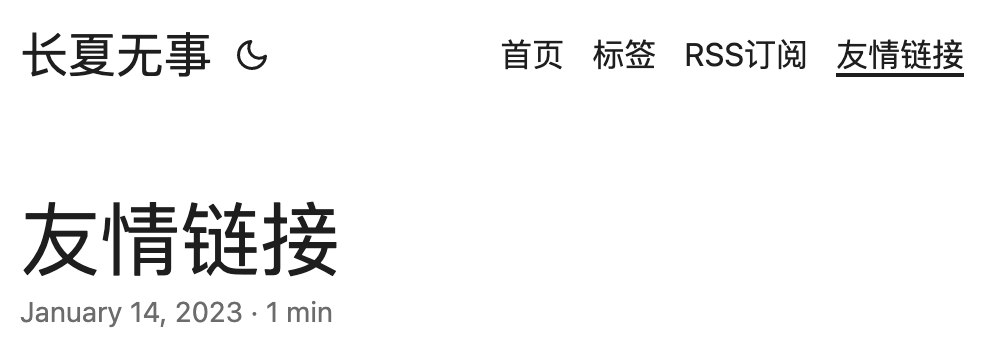
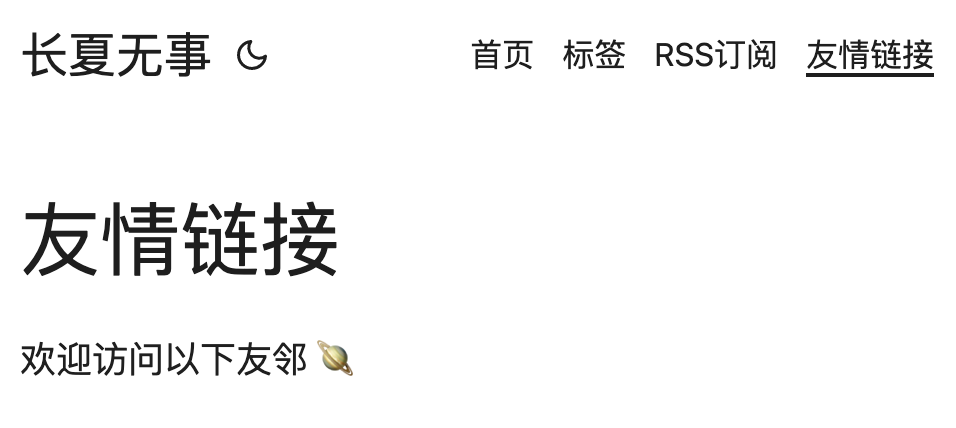
add search and fix menu pages

diff --git a/content/posts/blog-setup/index.md b/content/posts/blog-setup/index.md
@@ -144,7 +144,16 @@ menu:
 ```
 添加完就会出现在页面右上角啦。
 ![menu](./images/menu.png#center)
-想再添加一个菜单选项放友情链接，找了一会儿没发现怎么做，于是凭借猜测创建了`content/friends.md`这个文件。这样`用户名.github.io/friends`就会显示这篇文章。唯一的缺点是它会被当作是普通的博文出现在RSS阅读器中，也会显示发布日期和阅读时间。
+想再添加一个菜单选项放友情链接，找了一会儿没发现怎么做，于是凭借猜测创建了`content/friends.md`这个文件。这样`用户名.github.io/friends`就会显示这篇文章。
+```yaml
+---
+title: "友情链接"
+# 把日期删掉，就不会显示日期了
+draft: false
+# 不显示页面的阅读时间
+ShowReadingTime: false
+---
+```
 
 ![friends](./images/friends.png#center)
 

diff --git a/content/search.md b/content/search.md
@@ -1,0 +1,8 @@
+---
+title: "Search" # in any language you want
+layout: "search" # is necessary
+# url: "/archive"
+# description: "Description for Search"
+summary: "search"
+placeholder: "placeholder text in search input box"
+---

diff --git a/content/rss.md b/content/rss.md
@@ -1,7 +1,7 @@
 ---
 title: "RSS订阅"
-date: 2023-01-15T16:14:48-08:00
 draft: false
+ShowReadingTime: false
 ---
 
 可以通过RSS订阅本博客的所有文章：[https://changxiawushi.github.io/index.xml](../index.xml)

diff --git a/content/friends.md b/content/friends.md
@@ -1,7 +1,7 @@
 ---
 title: "友情链接"
-date: 2023-01-14T16:14:48-08:00
 draft: false
+ShowReadingTime: false
 ---
 欢迎访问以下友邻 🪐
 
